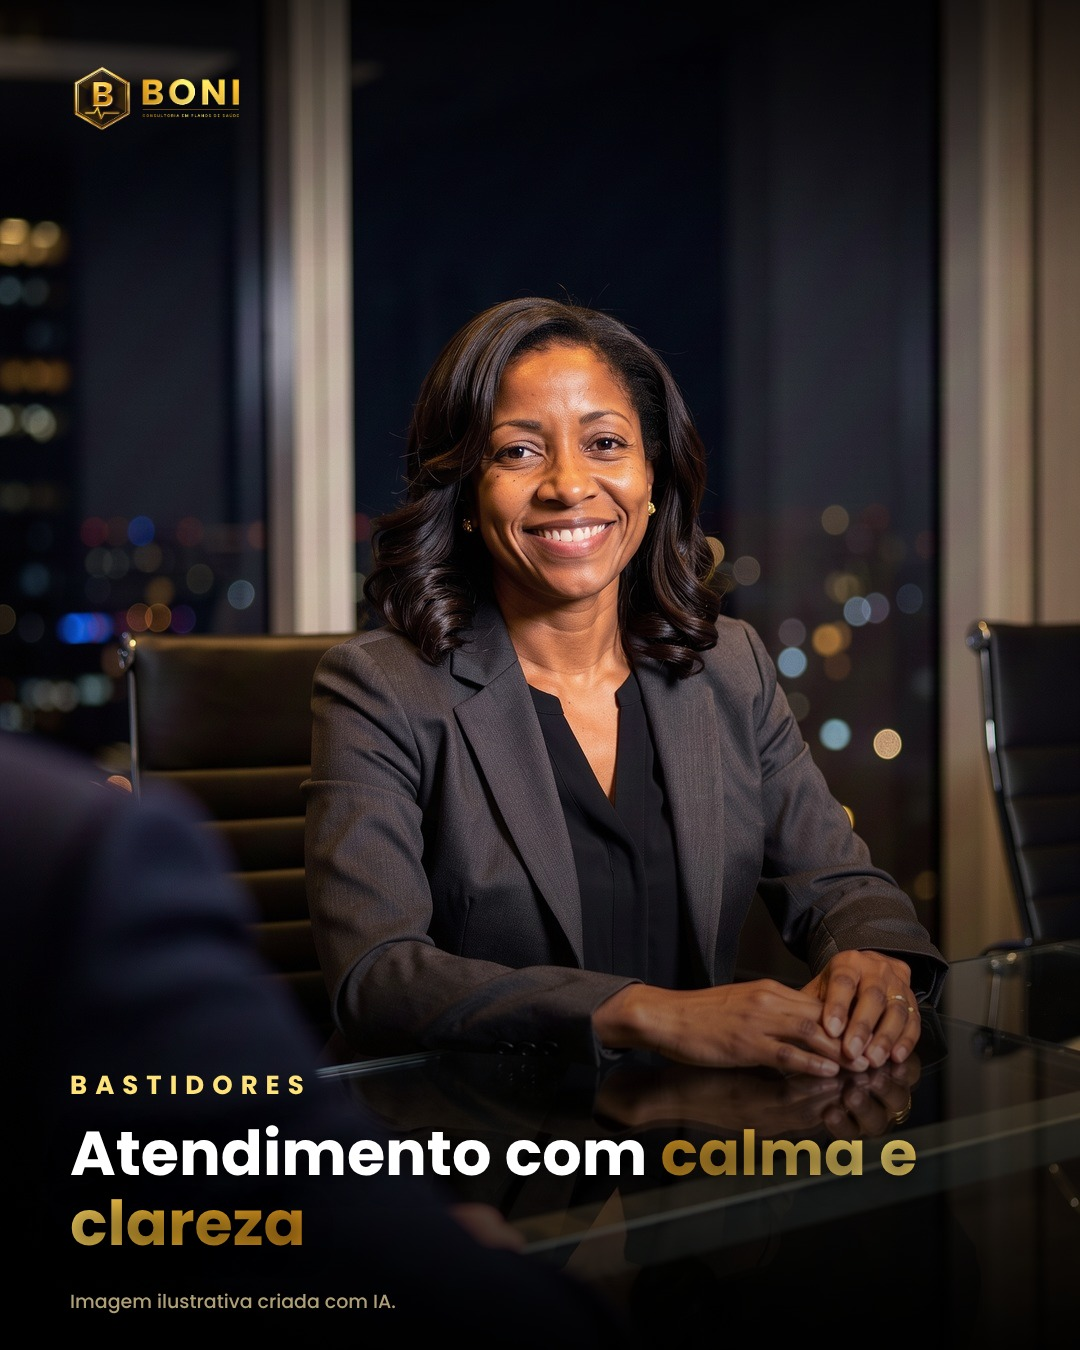
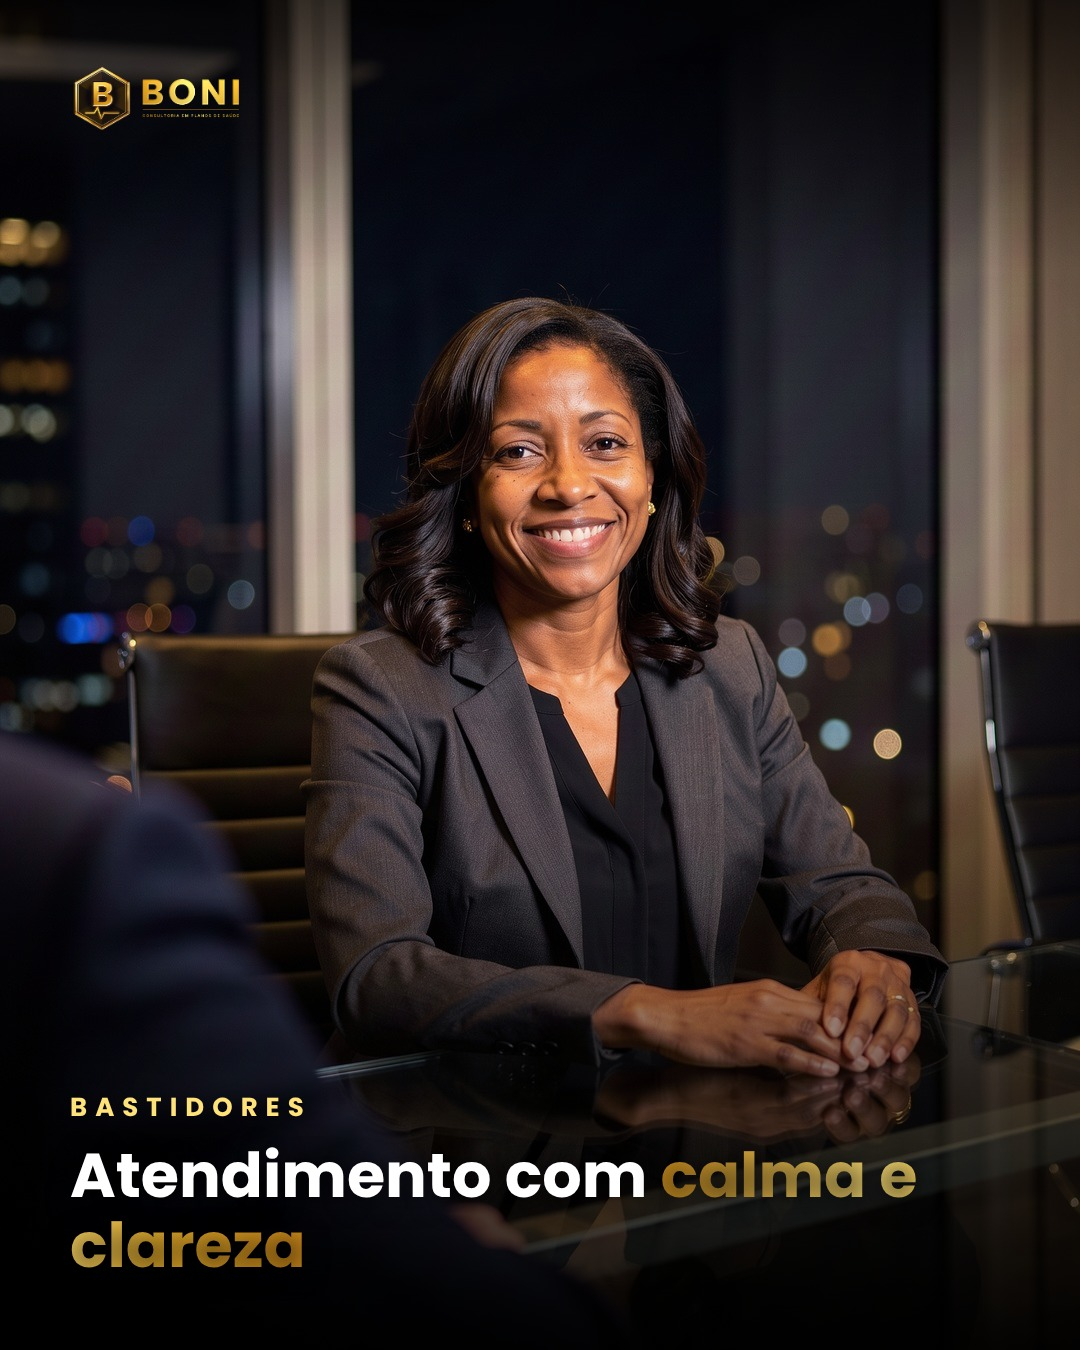
Bastidores sem aviso de IA na arte
Claude-Session: https://claude.ai/code/session_016UNNimnYsNx4a66oMiDygB

Changed region(s): [[0.0611, 0.7778, 0.8556, 0.9956]]

diff --git a/CLAUDE.md b/CLAUDE.md
@@ -14,6 +14,9 @@ Você é o time de conteúdo do perfil. O Thiago ("Boni") só aprova. Planeje, e
 ## Fatos de negócio (confirmados pelo Thiago)
 - Plano PME (empresarial) é a partir de 1 vida, inclusive para MEI. Para MEI, o CNPJ precisa estar ativo há 180 dias (regra fixa, confirmada pelo Thiago em 05/10/2026). Outras condições variam por operadora: sempre dizer isso.
 
+## Imagens geradas por IA
+- Não escrever "imagem ilustrativa criada com IA" nas artes (decisão do Thiago em 05/10/2026). Não apresentar pessoa gerada por IA como cliente real nem como depoimento.
+
 ## Regras de compliance (nunca quebrar)
 - Nada de preço fixo, "o melhor", "o mais barato", "garantido". Use "plano ideal/certo para o seu perfil".
 - Carência, reajuste, cobertura e regras de urgência/emergência: conferir em fonte oficial (ANS) e listar em REVISAO.md o que o Thiago precisa checar.
